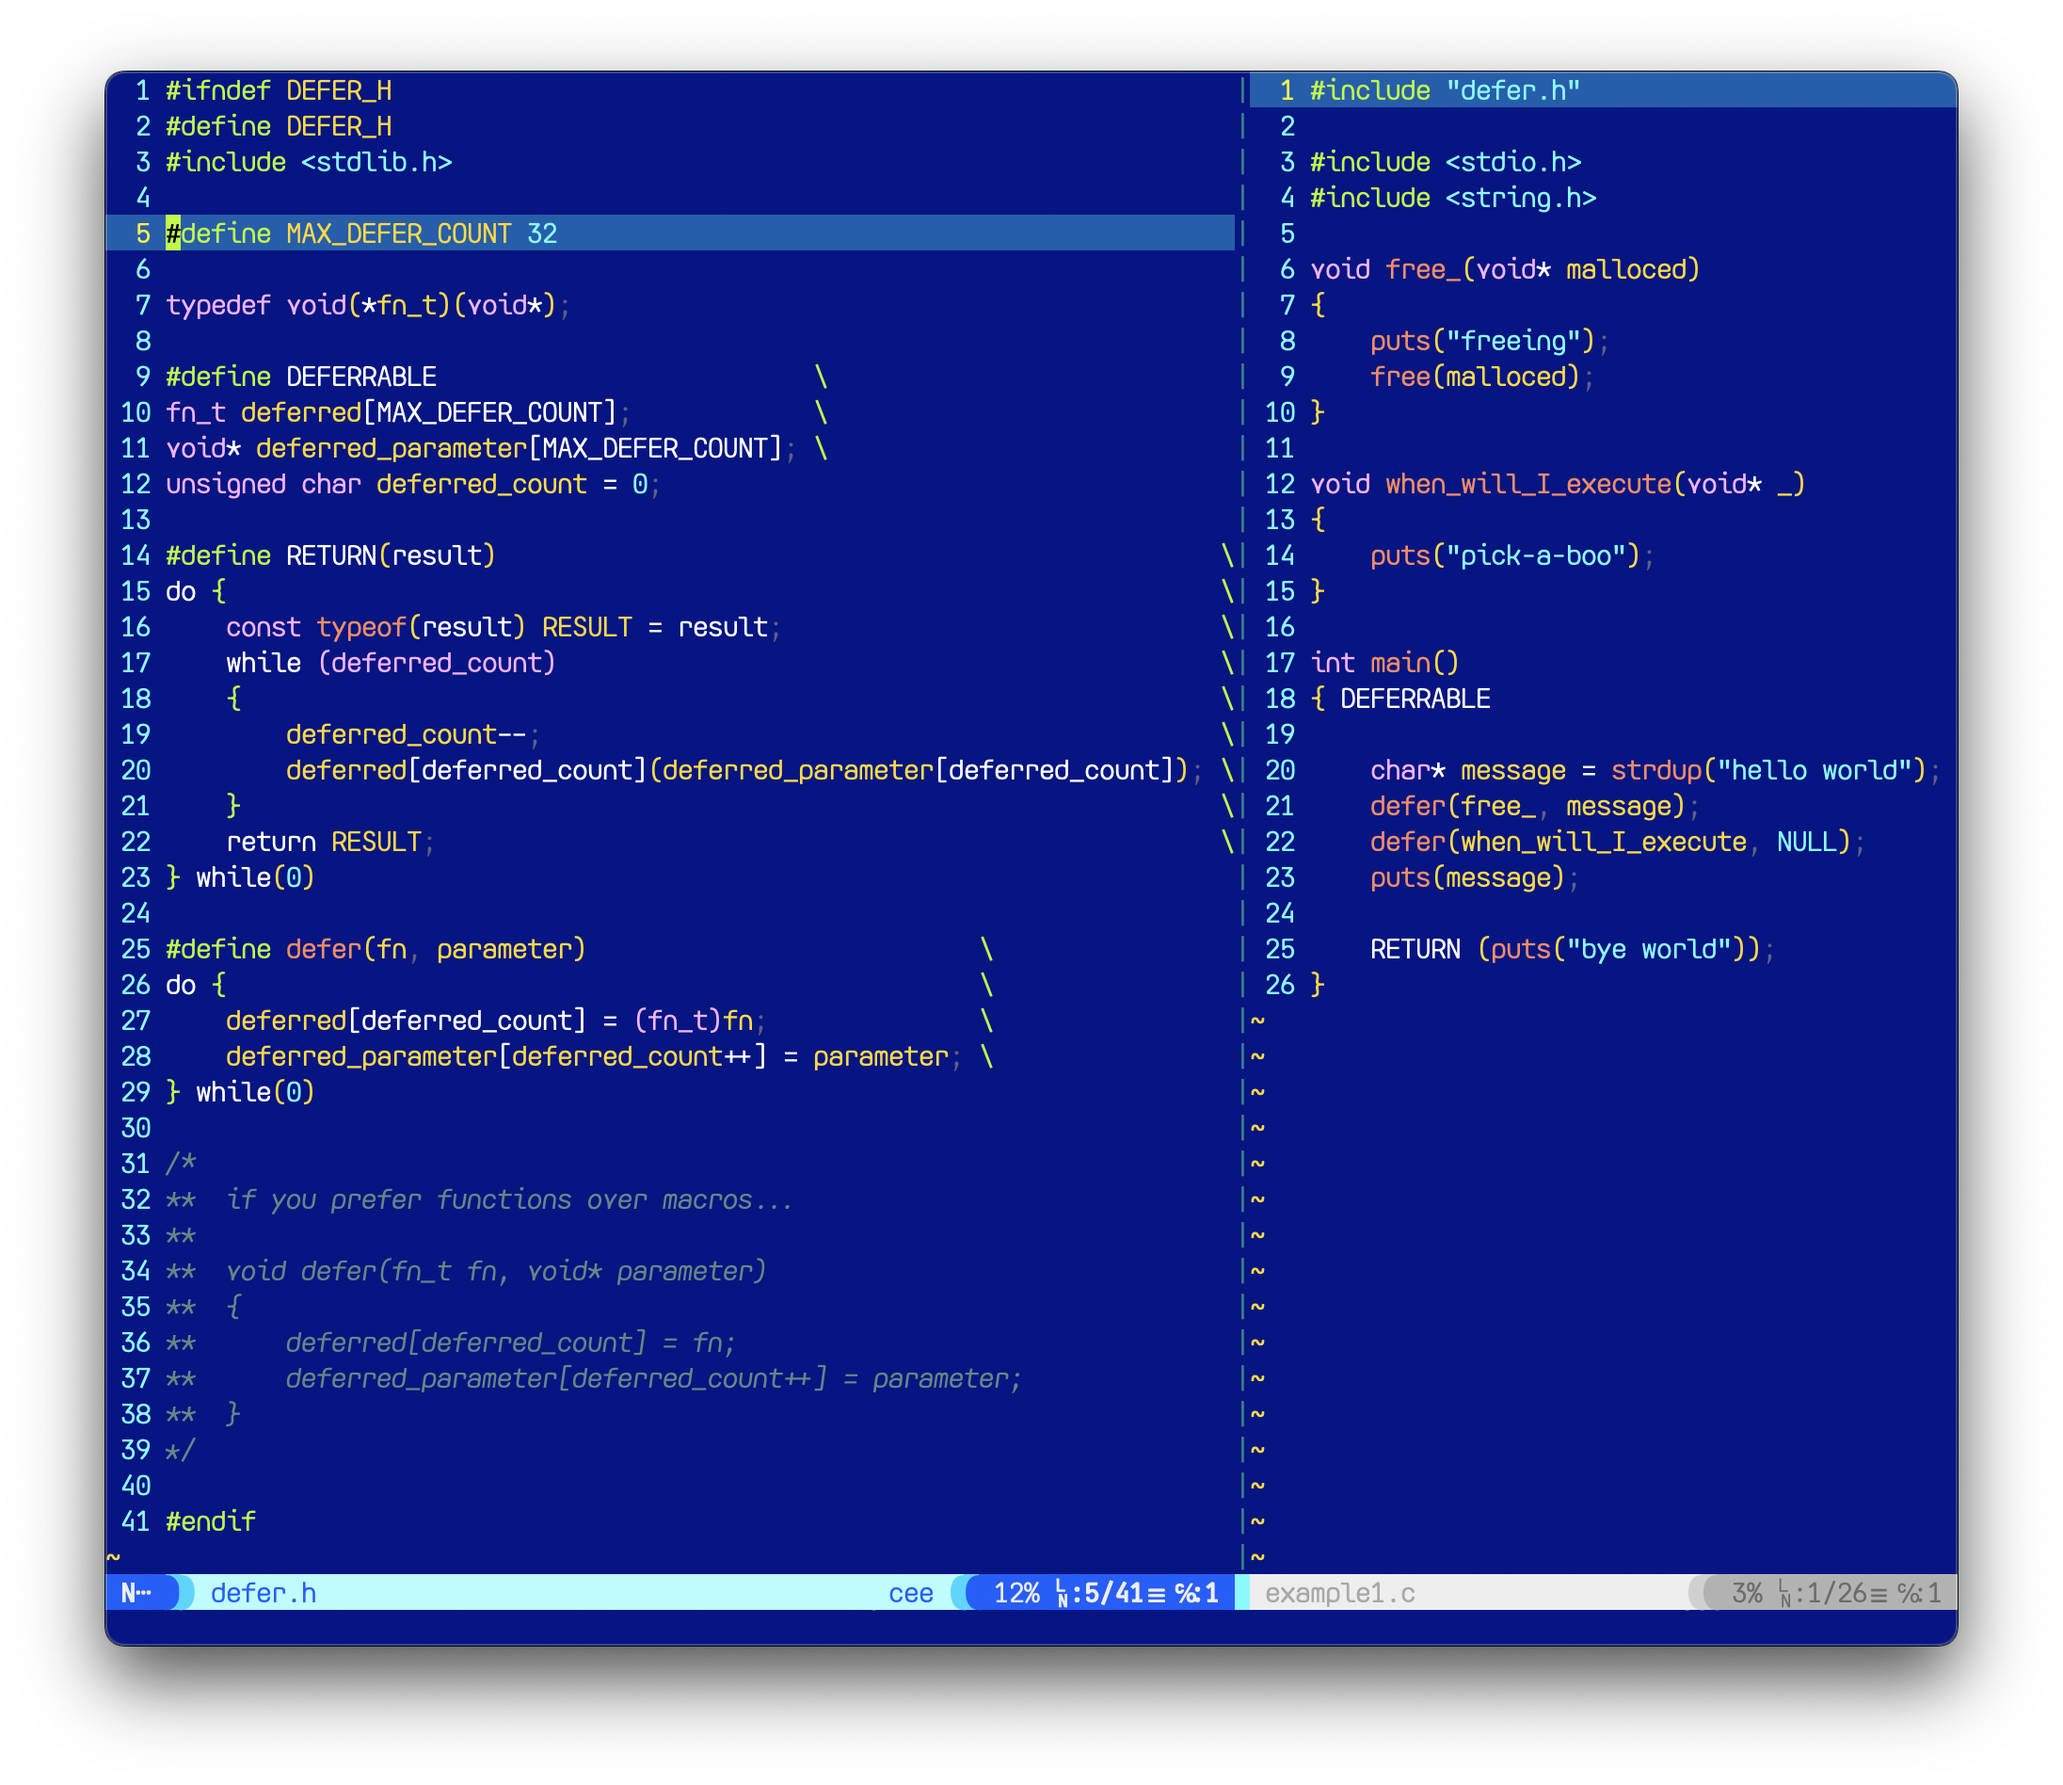
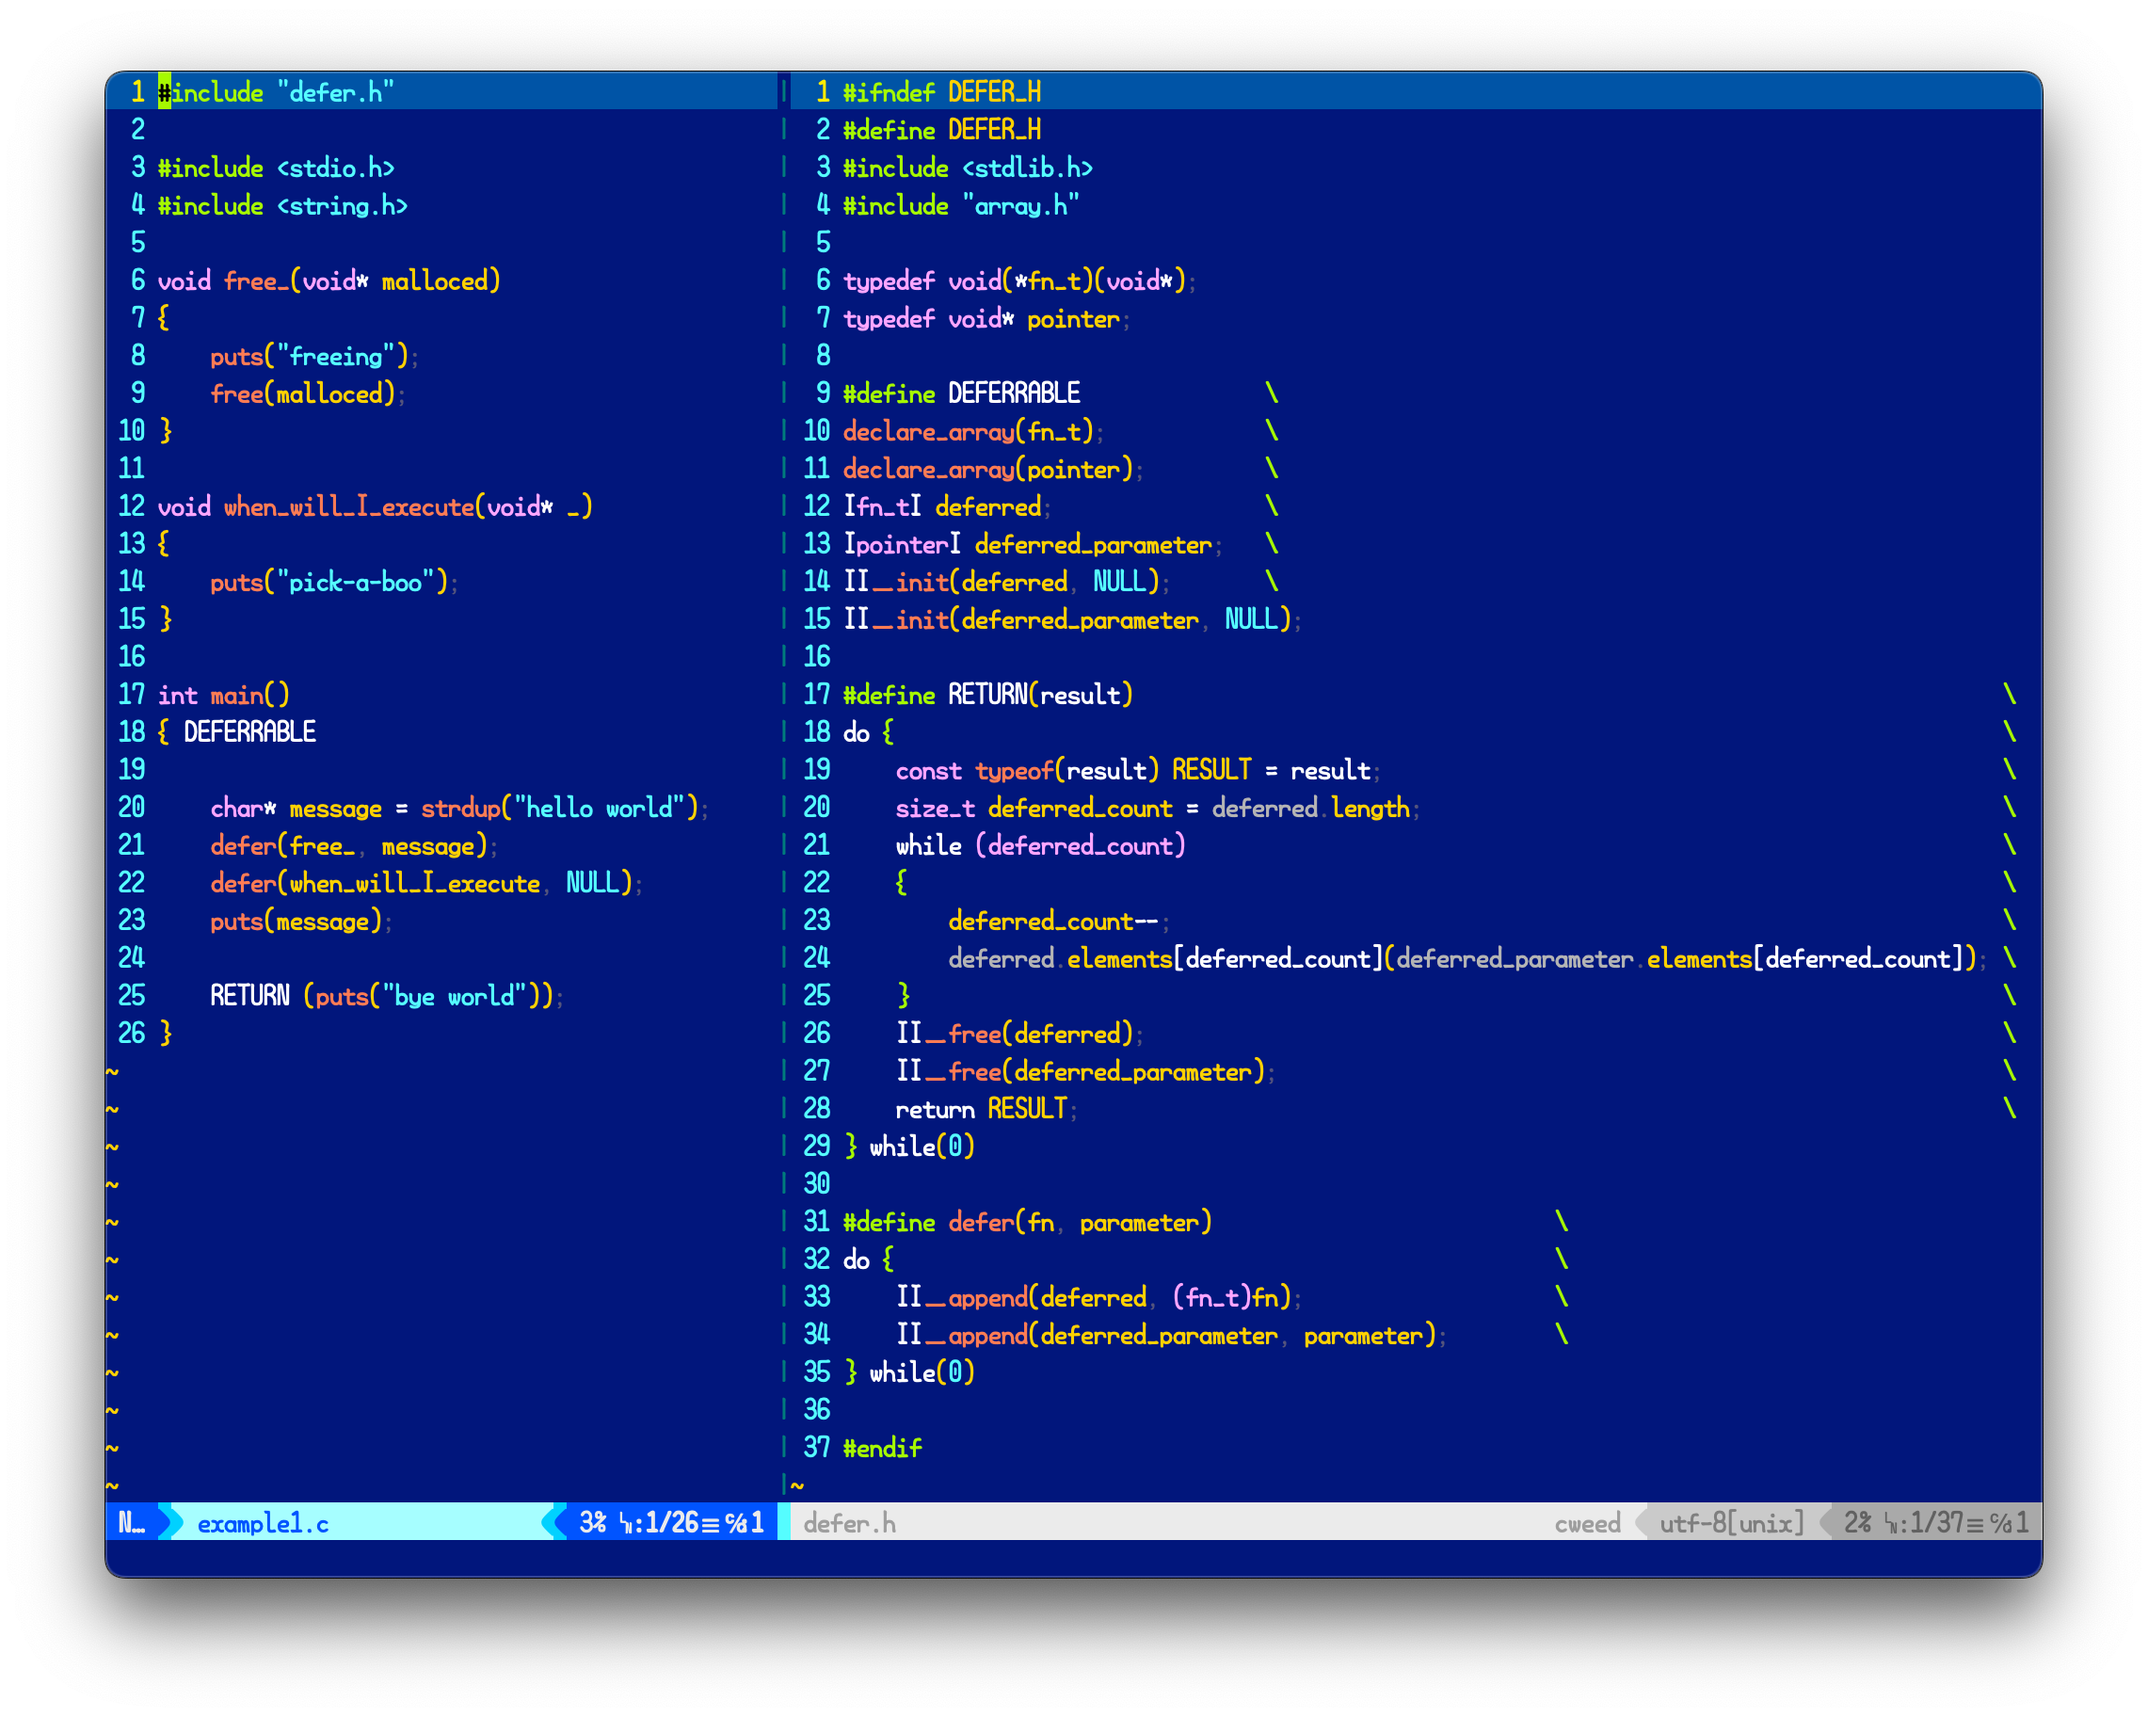
dynamic array of deferrables

diff --git a/array.h b/array.h
@@ -1,0 +1,81 @@
+#include <stdlib.h>
+
+#define II__make_room(array, count)                                            \
+{                                                                              \
+	array.length = count;                                                      \
+	array.capacity = count * 2;                                                \
+	array.elements = malloc(sizeof(typeof(*array.elements)) * array.capacity); \
+}
+
+#define II__move_room(array, count)                                                             \
+{                                                                                               \
+	array.capacity = count * 2;                                                                 \
+	array.elements = realloc(array.elements, sizeof(typeof(*array.elements)) * array.capacity); \
+}
+
+#define declare_array(type)    \
+typedef struct                 \
+{                              \
+	void(*element_free)(type); \
+	size_t capacity;           \
+	size_t length;             \
+	type* elements;            \
+} I##type##I;                  \
+
+#define II__init(array, free, ...)                                 \
+do {                                                               \
+	typeof(*array.elements) parameters[] = {__VA_ARGS__};          \
+	size_t count = sizeof(parameters)/sizeof(typeof(*parameters)); \
+                                                                   \
+	array.element_free = (typeof(array.element_free))free;         \
+	II__make_room(array, count);                                   \
+	for (size_t i = 0; i < count; i++)                             \
+		array.elements[i] = parameters[i];                         \
+} while(0)
+
+#define II__free(array)                                \
+do {                                                   \
+	if (array.elements)                                \
+	{                                                  \
+		if (array.element_free)                        \
+			for (size_t i = 0; i < array.length; i++)  \
+				array.element_free(array.elements[i]); \
+		free(array.elements);                          \
+		array.elements = NULL;                         \
+	}                                                  \
+} while(0)
+
+#define II__concat(original, ...)                                       \
+do {                                                                    \
+	typeof(*original.elements) parameters[] = {__VA_ARGS__};            \
+	size_t count = sizeof(parameters)/sizeof(typeof(*parameters));      \
+	const size_t total = original.length + count;                       \
+                                                                        \
+	if (original.capacity < total)                                      \
+		II__move_room(original, total);                                 \
+	for (size_t i = 0; original.length < total; original.length++, i++) \
+		original.elements[original.length] = parameters[i];             \
+} while(0)
+
+#define II__append(array, element)         \
+do {                                       \
+	const size_t last = array.length++;    \
+                                           \
+	if (array.capacity < array.length)     \
+	{                                      \
+		II__move_room(array, array.length) \
+		array.elements[last] = element;    \
+	}                                      \
+	else                                   \
+		array.elements[last] = element;    \
+} while(0)
+
+#define II__remove_last(array)                      \
+	array.element_free(array.elements[--array.length]) 
+
+#define II__duplicate(copy, original)                                                       \
+{                                                                                           \
+	copy = original;                                                                        \
+	copy.elements = malloc(copy.capacity);                                                  \
+	memcpy(copy.elements, original.elements, sizeof(typeof(*copy.elements)) * copy.length); \
+}

diff --git a/defer.h b/defer.h
@@ -1,41 +1,37 @@
 #ifndef DEFER_H
 #define DEFER_H
 #include <stdlib.h>
-
-#define MAX_DEFER_COUNT 32
+#include "array.h"
 
 typedef void(*fn_t)(void*);
+typedef void* pointer;
 
-#define DEFERRABLE                         \
-fn_t deferred[MAX_DEFER_COUNT];            \
-void* deferred_parameter[MAX_DEFER_COUNT]; \
-unsigned char deferred_count = 0;
+#define DEFERRABLE              \
+declare_array(fn_t);            \
+declare_array(pointer);         \
+Ifn_tI deferred;                \
+IpointerI deferred_parameter;   \
+II__init(deferred, NULL);       \
+II__init(deferred_parameter, NULL);
 
-#define RETURN(result)                                                \
-do {                                                                  \
-	const typeof(result) RESULT = result;                             \
-	while (deferred_count)                                            \
-	{                                                                 \
-		deferred_count--;                                             \
-		deferred[deferred_count](deferred_parameter[deferred_count]); \
-	}                                                                 \
-	return RESULT;                                                    \
+#define RETURN(result)                                                                  \
+do {                                                                                    \
+	const typeof(result) RESULT = result;                                               \
+	size_t deferred_count = deferred.length;                                            \
+	while (deferred_count)                                                              \
+	{                                                                                   \
+		deferred_count--;                                                               \
+		deferred.elements[deferred_count](deferred_parameter.elements[deferred_count]); \
+	}                                                                                   \
+	II__free(deferred);                                                                 \
+	II__free(deferred_parameter);                                                       \
+	return RESULT;                                                                      \
 } while(0)
 
 #define defer(fn, parameter)                          \
 do {                                                  \
-	deferred[deferred_count] = (fn_t)fn;              \
-	deferred_parameter[deferred_count++] = parameter; \
+	II__append(deferred, (fn_t)fn);                   \
+	II__append(deferred_parameter, parameter);        \
 } while(0)
-
-/*
-**  if you prefer functions over macros...
-**
-**  void defer(fn_t fn, void* parameter)
-**  {
-**  	deferred[deferred_count] = fn;
-**  	deferred_parameter[deferred_count++] = parameter;
-**  }
-*/
 
 #endif

diff --git a/README.md b/README.md
@@ -16,7 +16,7 @@ It can be used for many purposes, but the most significant usage would to clean 
 Combining `defer` with `malloc` is a strong memory management strategy that everyone should consider at least once.  
 
 # USAGE
-Copy and paste `defer.h` file, include it, and you'll get simple three macros, `DEFERRABLE`, `RETURN`, and most importantly, `defer` *(this can be a regular function if you wish)*.  
+Copy and paste `defer.h` and `array.h` file, include them, and you'll get simple three macros *(alongside macros in array.h)*, `DEFERRABLE`, `RETURN`, and most importantly, `defer` *(this can be a regular function if you wish)*.  
 
 ![defer example2](example2.png)
 ```
@@ -27,8 +27,3 @@ freed two words
 1) After the function curly brace opening, write `DEFERRABLE`; It declares necessary variables for `defer` to work.
 1) `defer(void(*)(void*), void*)` takes a function pointer, and a pointer that passes onto the same function.
 1) Use `RETURN` instead of the regular `return`; It evaluates the return expression, saves it, executes deffered functions that you've passed, and then return the previously saved return expression.
-
----
-
-If you find `MAX_DEFER_COUNT`'s default value `32` is enough, change it yourself *(of course, going beyond `255` requires you to change `deferred_count`'s type as well)*.
-
